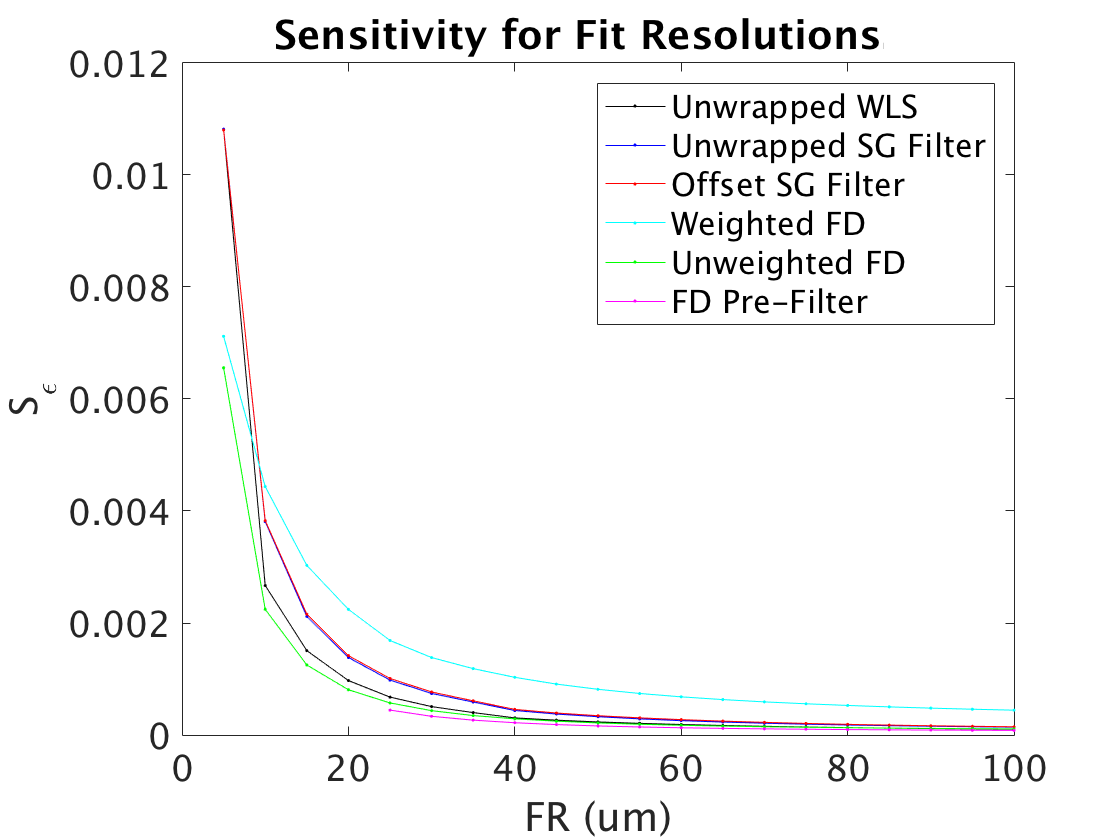
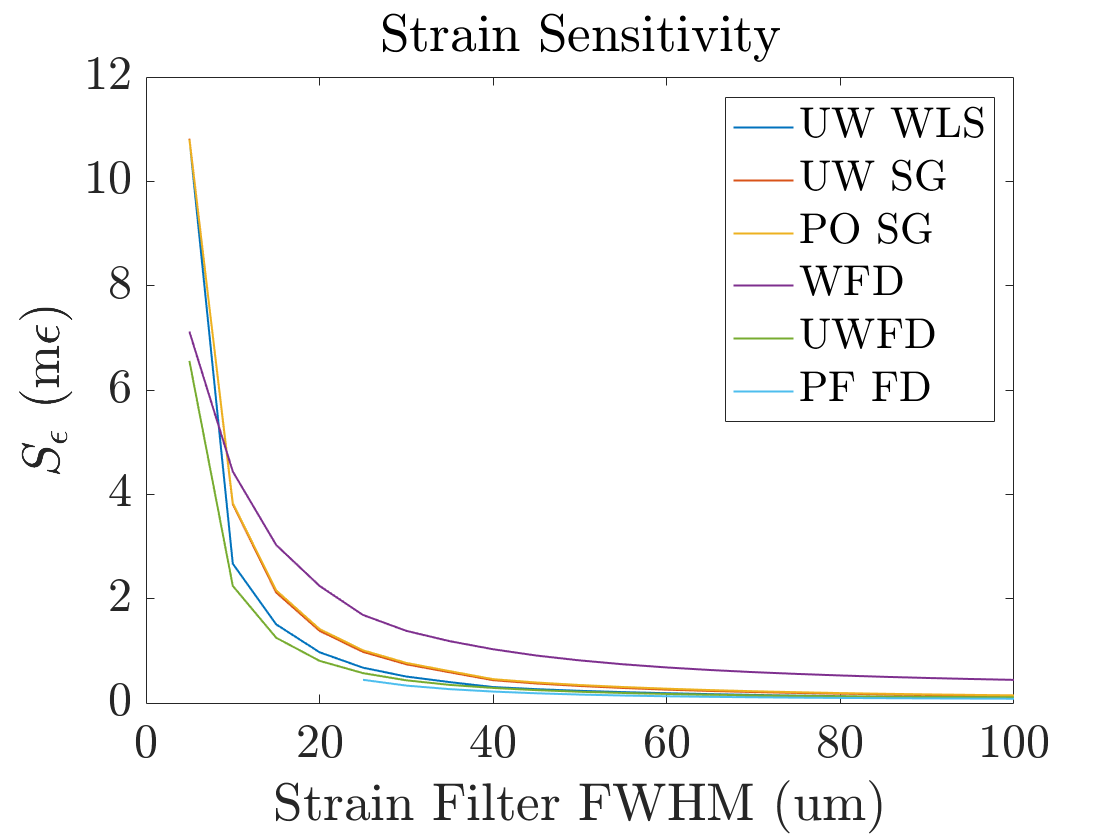
Added matlab colors to flowchart description

diff --git a/Results.tex b/Results.tex
@@ -104,24 +104,24 @@ This function unwraps the phase by the same process specified above, which requi
    \draw [fdsm] (fd.315) edge[out=270,in=90] (output.45);
 
     % LEGEND:
-   \matrix[draw=black,rounded corners] at (5,-1) {  
-   	\node (m1) at (0.5,0) [empty] {};
-	\node (wls) at (3,0) [legendtext] {Unwrapped WLS};
+   \matrix[draw=black,rounded corners] at (6,-1) {  
+    \node (m1) at (0.5,0) [empty] {};
+    \node (wls) at (3,0) [legendtext] {UW WLS};
     \draw [wls] (m1)--(wls.west);
     \node (m2) at (0.5,-0.5) [empty] {};
-    \node (uwsg) at (3,-0.5) [legendtext] {Unwrapped SG Filter};
+    \node (uwsg) at (3,-0.5) [legendtext] {UW SG};
     \draw [uwsg] (m2)--(uwsg.west);
     \node (m3) at (0.5,-1) [empty] {};
-    \node (posg) at (3,-1) [legendtext] {Offset SG Filter};
+    \node (posg) at (3,-1) [legendtext] {PO SG};
     \draw [posg] (m3)--(posg.west);
     \node (m4) at (0.5,-1.5) [empty] {};
-    \node (wfd) at (3,-1.5) [legendtext] {Weighted FD};
+    \node (wfd) at (3,-1.5) [legendtext] {WFD};
     \draw [wfd] (m4)--(wfd.west);
     \node (m5) at (0.5,-2) [empty] {};
-    \node (uwfd) at (3,-2) [legendtext] {Unweighted FD};
+    \node (uwfd) at (3,-2) [legendtext] {UWFD};
     \draw [uwfd] (m5)--(uwfd.west);
     \node (m6) at (0.5,-2.5) [empty] {};
-    \node (fdsm) at (3,-2.5) [legendtext] {Pre-Filter FD Smoothed};
+    \node (fdsm) at (3,-2.5) [legendtext] {PF FD};
     \draw [fdsm] (m6)--(fdsm.west);
     \\
     };
@@ -192,7 +192,7 @@ In order to maintain consistency between the strain estimation techniques, for t
     \label{bscan_images_1}	
 \end{figure}
 
-\autoref{bscan_images_1} shows the resulting B-scan strain images, taken from the centre of the phantom, for the six different strain estimation techniques described above. Note that negative strain corresponds to compressive force, that is a displacement downwards. The fact that there exist positive strain values suggests that our assumption of uniaxial compression is invalid, as stiffer regions are pushing the softer bulk laterally and upwards. It can seen in all images that the stiff inclusion shows less strain than the softer surrounding bulk, as expected. There are similar 'halo' effects, caused by the stiff inclusion taking more of the compressive force than the soft bulk immediately next to it, in all images. The area under the hard inclusion is characterised by low OCT signal, as can be seen in figure \autoref{oct_image}, and is the most prominently noisy in the techniques that utilise a phase unwrapping algorithm over the entire volume, which is highly sensitive to strong fluctuations in OCT signal and as a result creates artefacts in these regions. A similar pattern is seen in this region in the weighted and unweighted smoothing of FD strain, and is very significant in the pre-filter FD image, which has in addition further streaks of strain estimation arguments at the bottom of the image. 
+\autoref{bscan_images_1} shows the resulting B-scan strain images, taken from the centre of the phantom, for the six different strain estimation techniques described above. Note that negative strain corresponds to compressive force, that is a displacement downwards. The fact that there exist positive strain values suggests that our assumption of uniaxial compression is invalid, as stiffer regions are pushing the softer bulk laterally and upwards. It can seen in all images that the stiff inclusion shows less strain than the softer surrounding bulk, as expected. There are similar 'halo' effects, caused by the stiff inclusion taking more of the compressive force than the soft bulk immediately next to it, in all images. The area under the hard inclusion is characterised by low OCT signal, as can be seen in \autoref{oct_image}, and is the most prominently noisy in the techniques that utilise a phase unwrapping algorithm over the entire volume, which is highly sensitive to strong fluctuations in OCT signal and as a result creates artefacts in these regions. A similar pattern is seen in this region in the weighted and unweighted smoothing of FD strain, and is very significant in the pre-filter FD image, which has in addition further streaks of strain estimation arguments at the bottom of the image. 
 
 As mentioned before, the pre-filter FD with smoothed strain algorithm was introduced after noticing significant 'ripple' effects in the weighted smoothing of FD algorithm. These can be seen prominently to the top right of the inclusion, and match with features in the OCT image in \autoref{oct_image}. In addition to this, the surface of the sample, which has a high reflectance and therefore strong optical weighting, is a  prominent artefact in the weighted smoothing FD image. The application of a small pre-filter to this prior to smoothing appears to have removed this issue, as well as slightly decreased the impact of the optical features at the top right, however at the expense of introducing a multitude of streak artefacts into the bottom half of the image in areas of low OCT signal.
 
@@ -235,7 +235,7 @@ It can be seen that all new strain estimation techniques show a significant impr
 	\label{sensitivity_1}
 \end{figure}
 
-The strain sensitivity for the six different estimation techniques for different fit resolutions is shown in Figure \autoref{sensitivity_1}. There is a clear trend across all techniques, that at the larger fit resolutions the sensitivity is better. The downside of this is that at larger fit resolutions, the ability to distinguish objects laterally is significantly worsened, as can be seen in strain B-scan images in \autoref{strain_bscan_images}. Therefore there is a need to optimise the trade off between sensitivity and fit resolution. The three techniques that offer the best sensitivity at lower fit resolutions are WLS, unweighted smoothing with FD, and the pre-filtered FD. Note that the weighted smoothing with FD is significantly worse than the other techniques, due to the artefacts discussed above. The phase offset and unwrapping with SG filtering are slightly worse than the WLS estimate, likely due to them being an ordinary least squares estimate, as opposed to a weighted one.
+The strain sensitivity for the six different estimation techniques for different fit resolutions is shown in \autoref{sensitivity_1}. There is a clear trend across all techniques, that at the larger fit resolutions the sensitivity is better. The downside of this is that at larger fit resolutions, the ability to distinguish objects laterally is significantly worsened, as can be seen in strain B-scan images in \autoref{strain_bscan_images}. Therefore there is a need to optimise the trade off between sensitivity and fit resolution. The three techniques that offer the best sensitivity at lower fit resolutions are WLS, unweighted smoothing with FD, and the pre-filtered FD. Note that the weighted smoothing with FD is significantly worse than the other techniques, due to the artefacts discussed above. The phase offset and unwrapping with SG filtering are slightly worse than the WLS estimate, likely due to them being an ordinary least squares estimate, as opposed to a weighted one.
 
 Although the pre-filtered FD supposedly shows the best sensitivity, it is important to note the artefacts present in the qualitative evaluation of the image. Therefore this sensitivity measurement is not indicative of the image quality as a whole, but only a segment of it.
 

diff --git a/thesis.tex b/thesis.tex
@@ -23,6 +23,7 @@
 \usepackage{hyperref}
 \usepackage[section]{placeins}
 \usepackage[final]{pdfpages}
+\usepackage{xcolor}
 
 % Initial set up for algorithm description:
 \tikzstyle{basic} = [rectangle, rounded corners, minimum width=3cm, minimum height=1cm,text centered, draw=black, text width=3cm]
@@ -31,15 +32,23 @@
 \tikzstyle{main_long} = [rectangle, rounded corners, minimum width=6cm, minimum height=1cm, text centered, draw=black, text width=6cm, font=\bf]
 \tikzstyle{temp} = [rectangle, rounded corners, dashed, minimum width=6cm, minimum height=1cm, text centered, draw=black, text width=6cm, font=\bf]
 % For legend
-\tikzstyle{legendtext} = [text width=3.3cm,font=\scriptsize]
+\tikzstyle{legendtext} = [text width=2.5cm]
 \tikzstyle{empty} = [text width=0.1cm]
 
-\tikzstyle{wls} = [black,thick]
-\tikzstyle{uwsg} = [blue,thick]
-\tikzstyle{posg} = [red,thick]
-\tikzstyle{wfd} = [cyan,thick]
-\tikzstyle{uwfd} = [green,thick]
-\tikzstyle{fdsm} = [magenta]
+% Define colours:
+\definecolor{matlab1}{rgb}{0,0.4470,0.7410}
+\definecolor{matlab2}{rgb}{0.85,0.325,0.098}
+\definecolor{matlab3}{rgb}{0.929,0.694,0.125}
+\definecolor{matlab4}{rgb}{0.494,0.184,0.556}
+\definecolor{matlab5}{rgb}{0.466,0.674,0.188}
+\definecolor{matlab6}{rgb}{0.301,0.745,0.933}
+
+\tikzstyle{wls} = [color=matlab1,line width=0.4mm]
+\tikzstyle{uwsg} = [color=matlab2,line width=0.4mm]
+\tikzstyle{posg} = [color=matlab3,line width=0.4mm]
+\tikzstyle{wfd} = [color=matlab4,line width=0.4mm]
+\tikzstyle{uwfd} = [color=matlab5,line width=0.4mm]
+\tikzstyle{fdsm} = [color=matlab6,line width=0.4mm]
 
 \newtheorem{theorem}{Theorem}[section]
 \newtheorem{lemma}[theorem]{Lemma}
